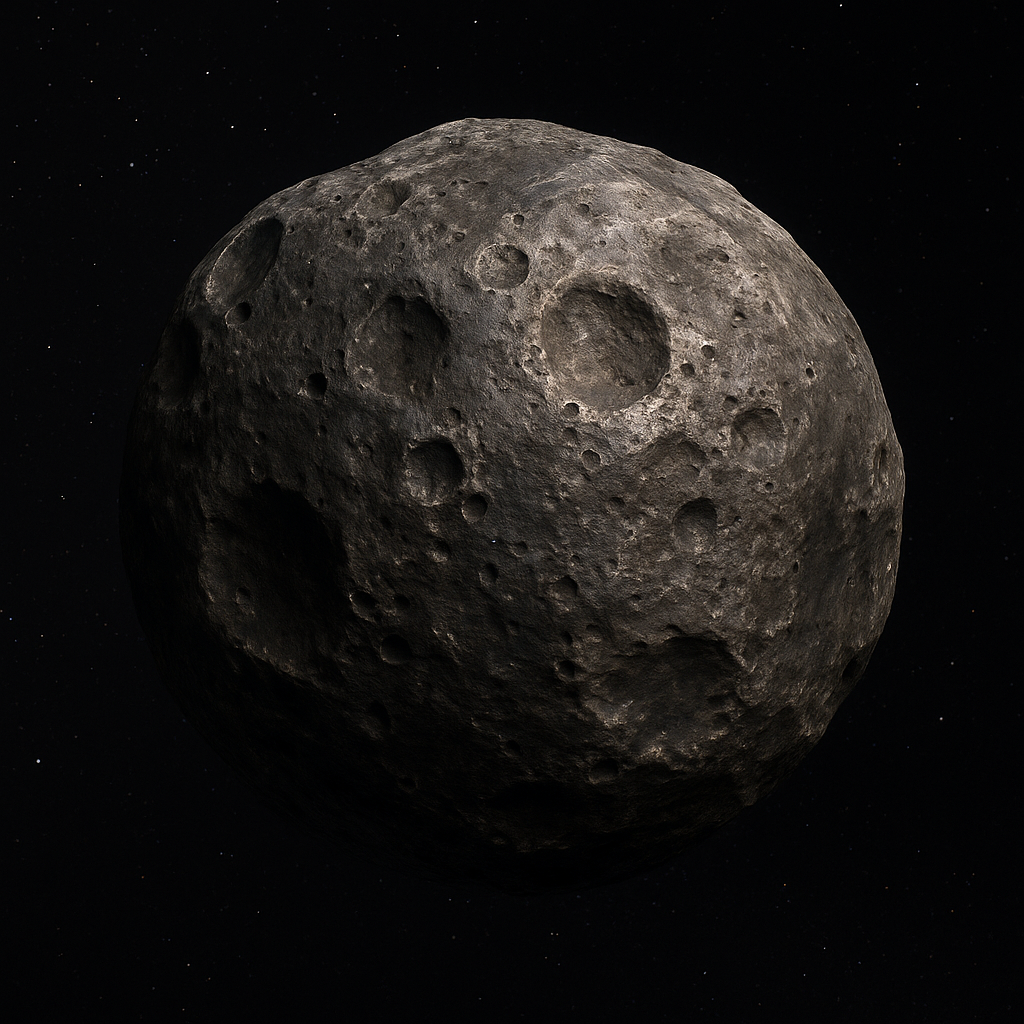
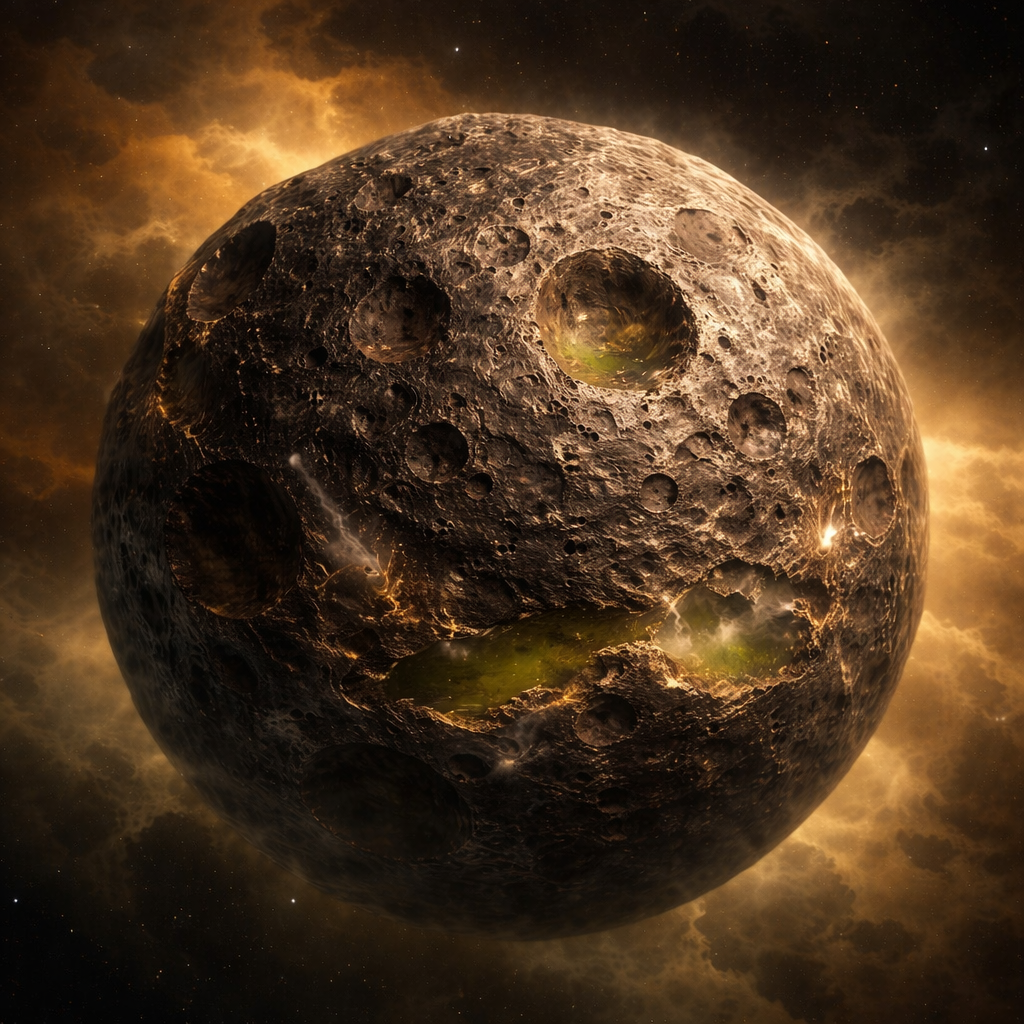
Segundo Cambio de mi proyecto1

diff --git a/index.html b/index.html
@@ -684,7 +684,47 @@ pre.code{
             </ul>
           </div>
         </article>
+<!-- PANEL NUEVO: Atmósfera e Hidrosfera -->
+<article class="panel-card" data-panel="atm-hidro">
+<div class="panel-head" tabindex="0" role="button" aria-expanded="false">
+<div class="left">
+<div style="width:56px;height:56px;border-radius:12px;background:linear-gradient(90deg,#68a4ff,#ffd166);display:grid;place-items:center;font-weight:900;color:#061028">☁</div>
+<div>
+<div class="title">Atmósfera e Hidrosfera propuestas</div>
+<div class="subtitle">Modelo hipotético de envoltura gaseosa y líquida</div>
+</div>
+</div>
+<div class="chev">▶</div>
+</div>
 
+<div class="panel-body" aria-hidden="true">
+
+<h2 class="section-title">Atmósfera propuesta</h2>
+<p>Aunque Lunaris carece de atmósfera en su estado actual, se plantea un modelo hipotético de atmósfera primitiva con la siguiente composición:</p>
+
+<ul>
+<li><strong>N₂:</strong> 50%</li>
+<li><strong>CO₂:</strong> 20%</li>
+<li><strong>CH₄:</strong> 15%</li>
+<li><strong>H₂S:</strong> 10%</li>
+<li><strong>Vapor de agua:</strong> 5%</li>
+</ul>
+
+<p>Esta atmósfera sería densa y de carácter reductor, con abundancia de gases ricos en carbono y azufre. Su presencia implicaría una mayor retención de calor, posible formación de nubes densas y condiciones químicas favorables para reacciones prebióticas.</p>
+
+<h2 class="section-title">Hidrosfera propuesta</h2>
+<p>Se plantea también una hidrosfera alternativa, distinta al agua líquida terrestre, compuesta por:</p>
+
+<ul>
+<li>Formamida (HCONH₂)</li>
+<li>Mezcla de etilenglicol y metanol</li>
+<li>Silicatos, fosfatos y sulfuros disueltos</li>
+</ul>
+
+<p>Este tipo de hidrosfera sería químicamente activa, con capacidad para disolver compuestos minerales metálicos, facilitar reacciones orgánicas complejas y actuar como medio para procesos prebióticos en condiciones extremas.</p>
+
+</div>
+</article>
         <!-- PANEL 12: Síntesis general -->
         <article class="panel-card" data-panel="refs" id="sintesis">
           <div class="panel-head" tabindex="0" role="button" aria-expanded="false">
